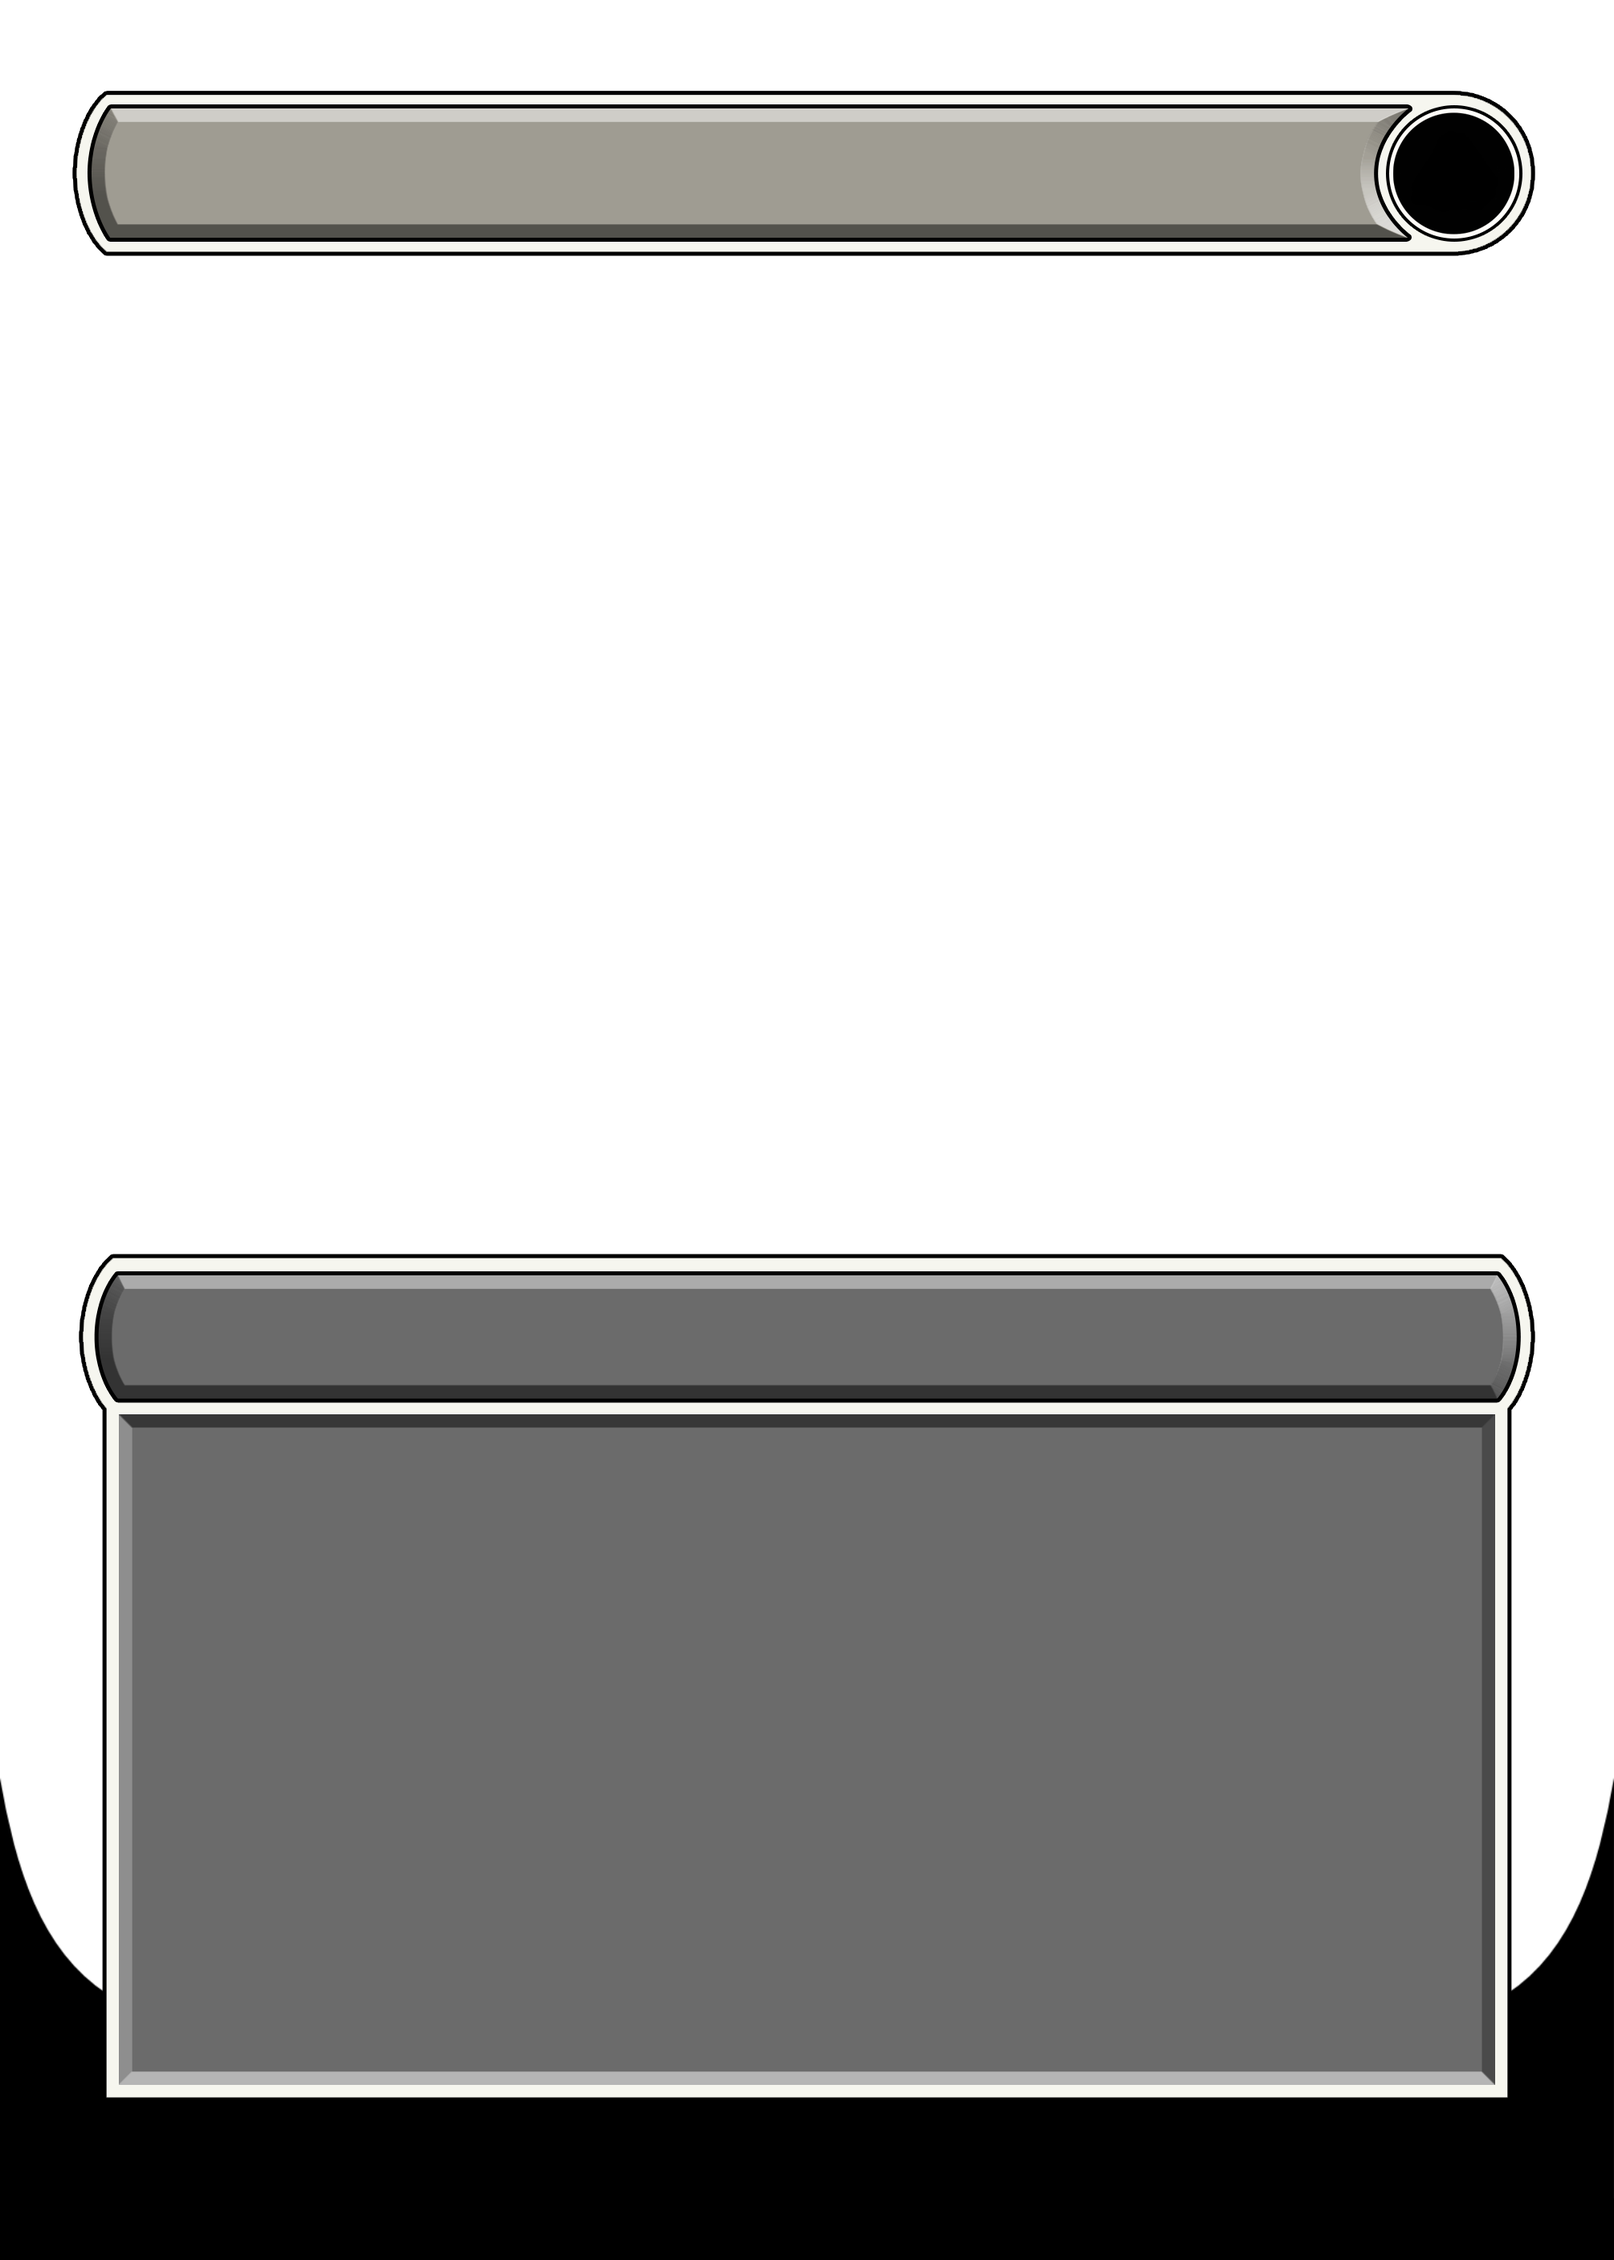
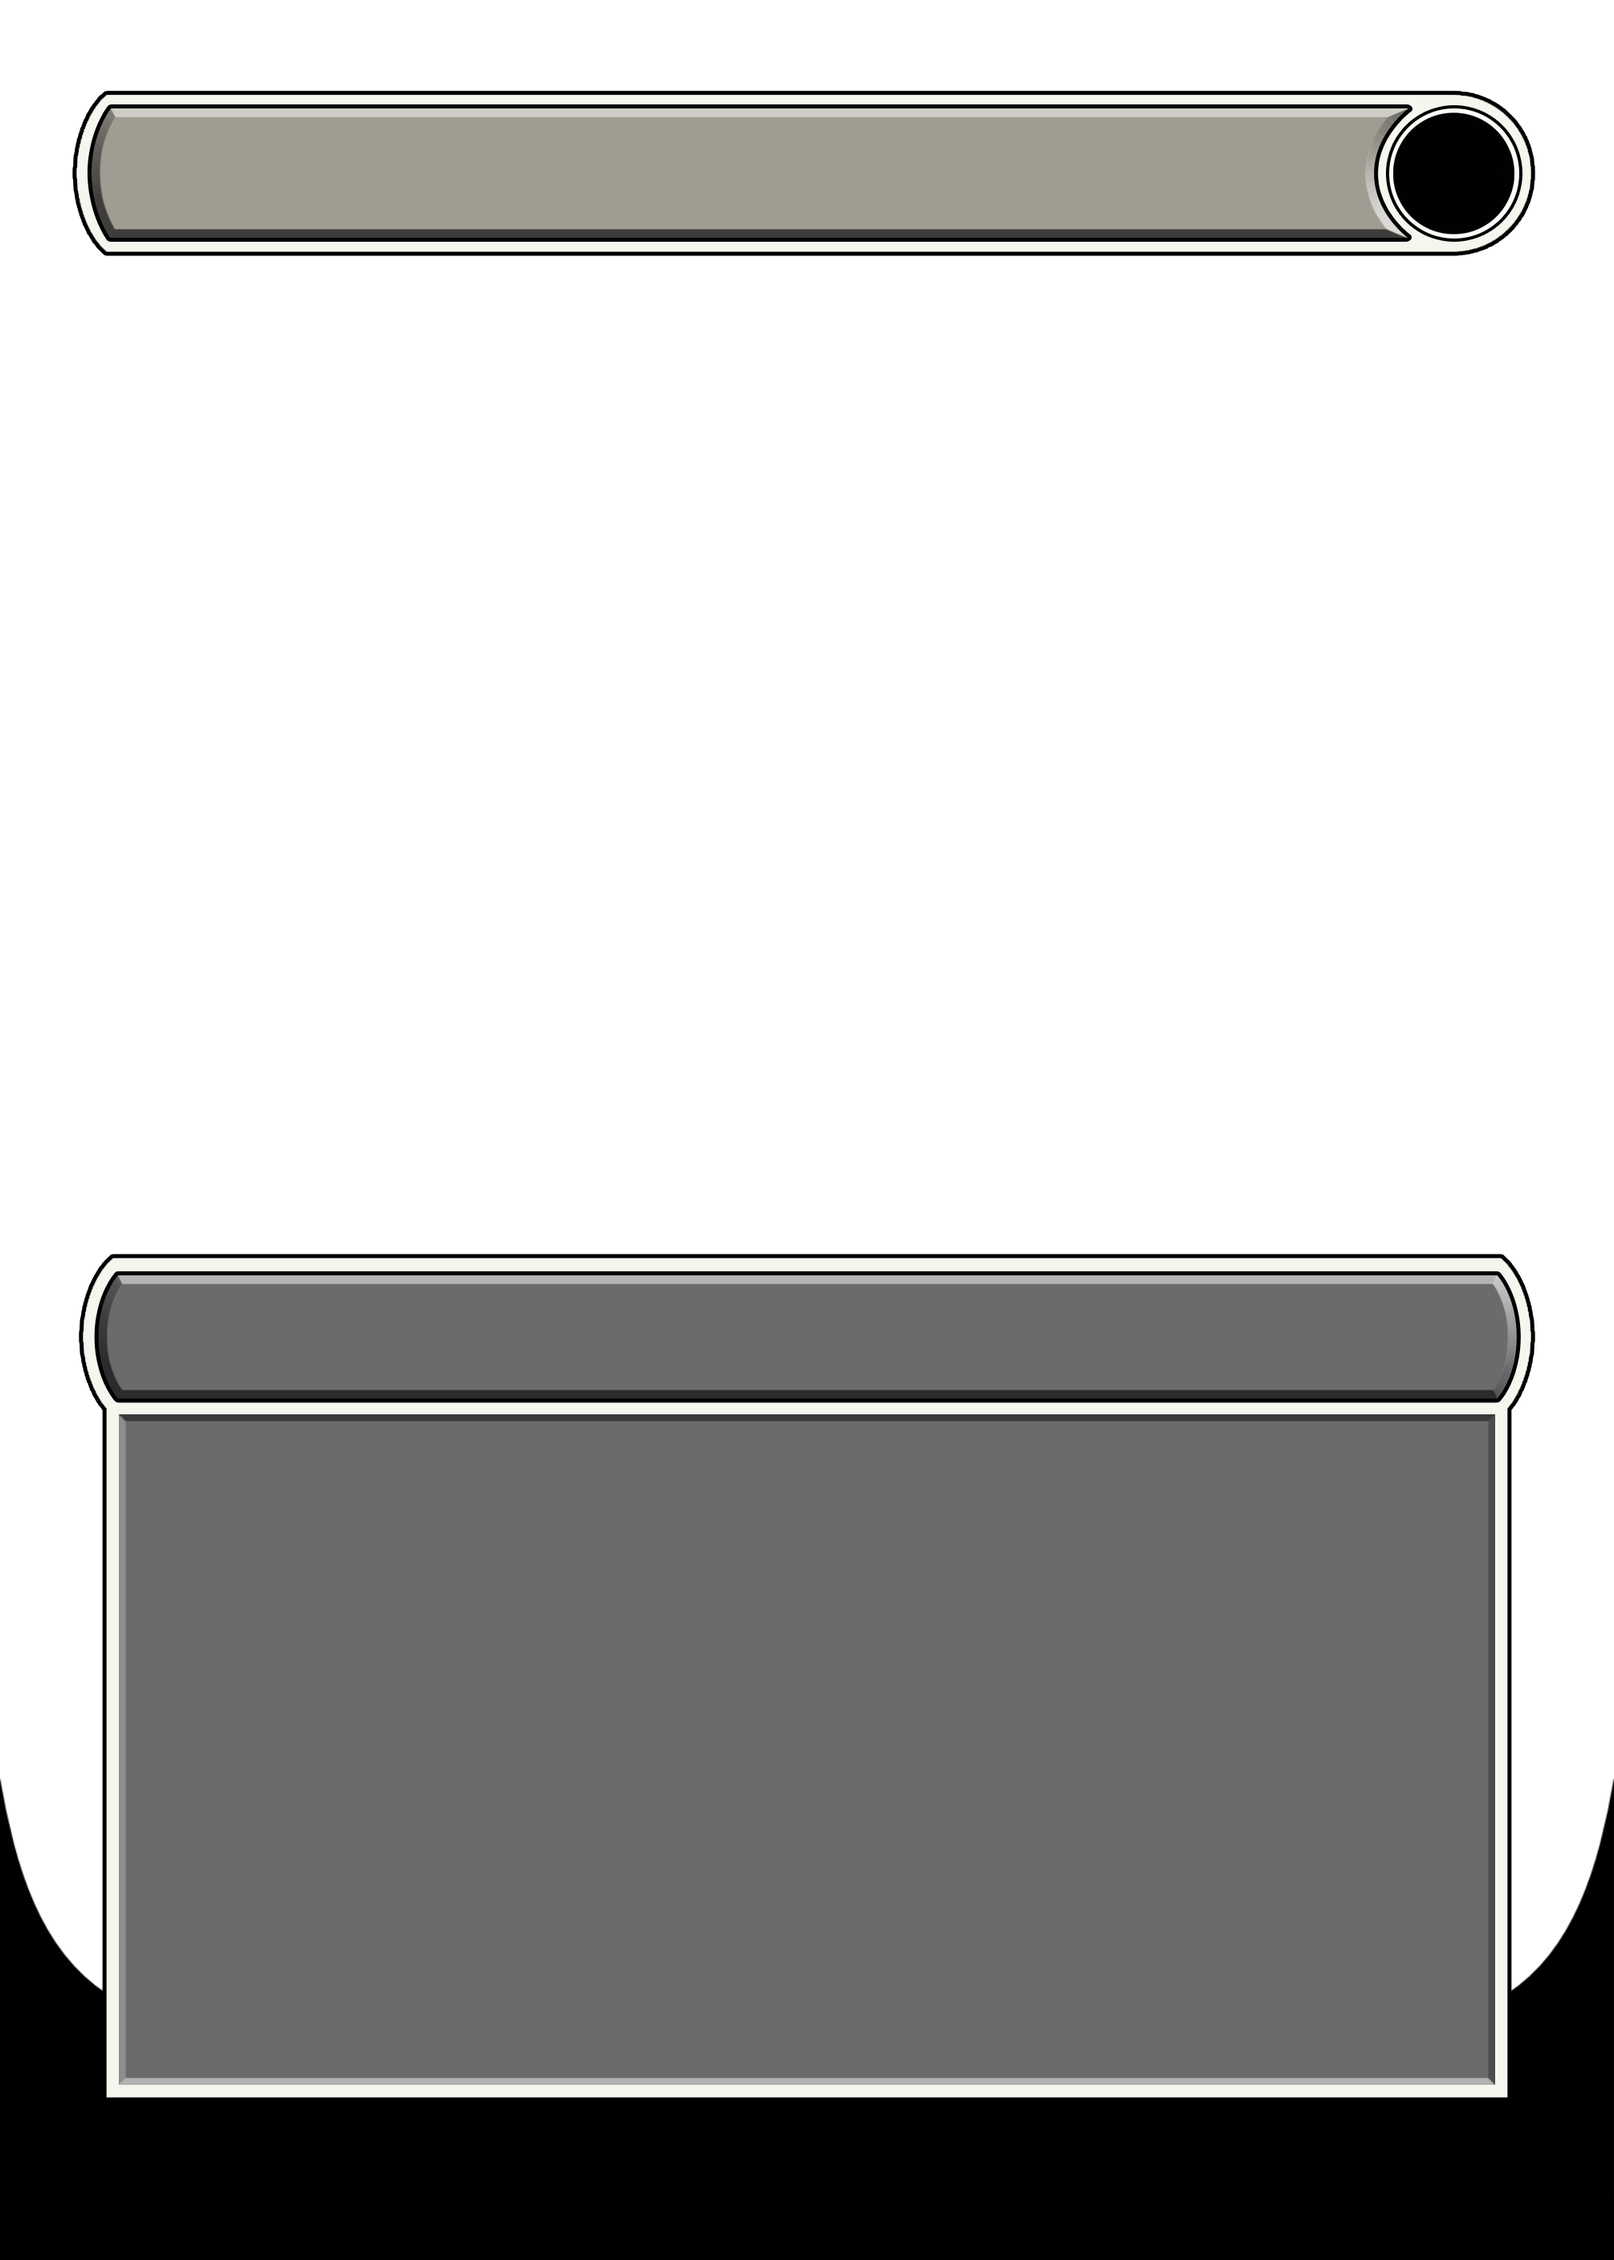
Adds Floating Legends Crown Back Right
Adds Floating Legend Crown (Back/Right) for Transform Frames and I redid the effects on the Borderless Alt Transform frames.

Changed region(s): [[0.0617, 0.5874, 0.9254, 0.9275], [0.0617, 0.0618, 0.0925, 0.0928]]

diff --git a/js/frames/packTransformLegendCrownsFloatingBackRight.js b/js/frames/packTransformLegendCrownsFloatingBackRight.js
@@ -1,0 +1,23 @@
+//Create objects for common properties across available frames
+var bounds = {x:0, y:0, width:1, height:1};
+//defines available frames
+availableFrames = [
+	{name:'White Legend Crown', src:'/img/frames/m15/transform/crowns/floating/backRight/w.png', bounds:bounds, complementary:[9,10]},
+	{name:'Blue Legend Crown', src:'/img/frames/m15/transform/crowns/floating/backRight/u.png', bounds:bounds, complementary:[9,10]},
+	{name:'Black Legend Crown', src:'/img/frames/m15/transform/crowns/floating/backRight/b.png', bounds:bounds, complementary:[9,10]},
+	{name:'Red Legend Crown', src:'/img/frames/m15/transform/crowns/floating/backRight/r.png', bounds:bounds, complementary:[9,10]},
+	{name:'Green Legend Crown', src:'/img/frames/m15/transform/crowns/floating/backRight/g.png', bounds:bounds, complementary:[9,10]},
+	{name:'Multicolored Legend Crown', src:'/img/frames/m15/transform/crowns/floating/backRight/m.png', bounds:bounds, complementary:[9,10]},
+	{name:'Artifact Legend Crown', src:'/img/frames/m15/transform/crowns/floating/backRight/a.png', bounds:bounds, complementary:[9,10]},
+	{name:'Colorless Legend Crown', src:'/img/frames/m15/transform/crowns/floating/backRight/c.png', bounds:bounds, complementary:[9,10]},
+	{name:'Land Legend Crown', src:'/img/frames/m15/transform/crowns/floating/backRight/l.png', bounds:bounds, complementary:[9,10]},
+	{name:'Legend Crown Border Cover', src:'/img/black.png', bounds:{x:0.0394, y:0.0277, width:0.9214, height:0.0177}, erase:true},
+	{name:'Legend Crown Lower Cutout', src:'/img/black.png', bounds:{x:0.0767, y:0.1096, width:0.8467, height:0.0143}, erase:true},
+	{name:'Legend Crown Outline (Place this under crown layer)', src:'/img/frames/m15/crowns/m15CrownFloatingOutline.png', bounds:{x:0.028, y:0.0172, width:0.944, height:0.1062}}
+];
+//disables/enables the "Load Frame Version" button
+document.querySelector('#loadFrameVersion').disabled = true;
+//defines process for loading this version, if applicable
+document.querySelector('#loadFrameVersion').onclick = null;
+//loads available frames
+loadFramePack();

diff --git a/js/frames/groupDFC.js b/js/frames/groupDFC.js
@@ -19,7 +19,7 @@ loadFramePacks([
 	{name:'Snow (Back)', value:'M15TransformSnowBackNew'},
 	{name:'Universes Beyond (Back)', value:'M15TransformUBBackNew'},
 	{name:'Borderless (Back)', value:'TransformBorderlessBack'},
-	{name:'Borderless Alt (Back)', value:'TransformBorderlessAltBack'},
+	{name:'Borderless Alt (Back/Right)', value:'TransformBorderlessAltBack'},
 	{name:'Extended Art (Back)', value:'TransformExtendedBack'},
 	
 	
@@ -39,6 +39,7 @@ loadFramePacks([
 	{name:'Addons', value:'disabled'},
 	{name:'Legend Crowns', value:'TransformLegendCrowns'},
 	{name:'Floating Legend Crowns', value:'TransformLegendCrownsFloating'},
+	{name:'Floating Legend Crowns (Back/Right)', value:'TransformLegendCrownsFloatingBackRight'},
 	{name:'Nickname Legend Crowns', value:'TransformLegendCrownsNickname'},
 	{name:'Legend Crowns (Universes Beyond)', value:'TransformLegendCrownsUB'},
 	{name:'Inner Crowns', value:'M15InnerCrowns'},

diff --git a/js/frameSearch.js b/js/frameSearch.js
@@ -162,12 +162,13 @@ const frameNames = new Map ([
 	['Borderless (Front)', 'TransformBorderlessFront'],
 	['Borderless (Back)', 'TransformBorderlessBack'],
 	['Borderless Alt (Front)', 'TransformBorderlessAltFront'],
-	['Borderless Alt (Back)', 'TransformBorderlessAltBack'],
+	['Borderless Alt (Back/Right)', 'TransformBorderlessAltBack'],
 	['Extended Art (Front)', 'TransformExtendedFront'],
 	['Extended Art (Back)', 'TransformExtendedBack'],
 	['SDCC15 (Blackout)', 'TransformSDCC15'],
 	['DFC Legend Crowns', 'TransformLegendCrowns'],
 	['DFC Floating Legend Crowns', 'TransformLegendCrownsFloating'],
+	['DFC Floating Legend Crowns (Back/Right)', 'TransformLegendCrownsFloatingBackRight'],
 	['DFC Nickname Legend Crowns', 'TransformLegendCrownsNickname'],
 	//modal
 	['Modal DFC', 'ModalRegular'],
